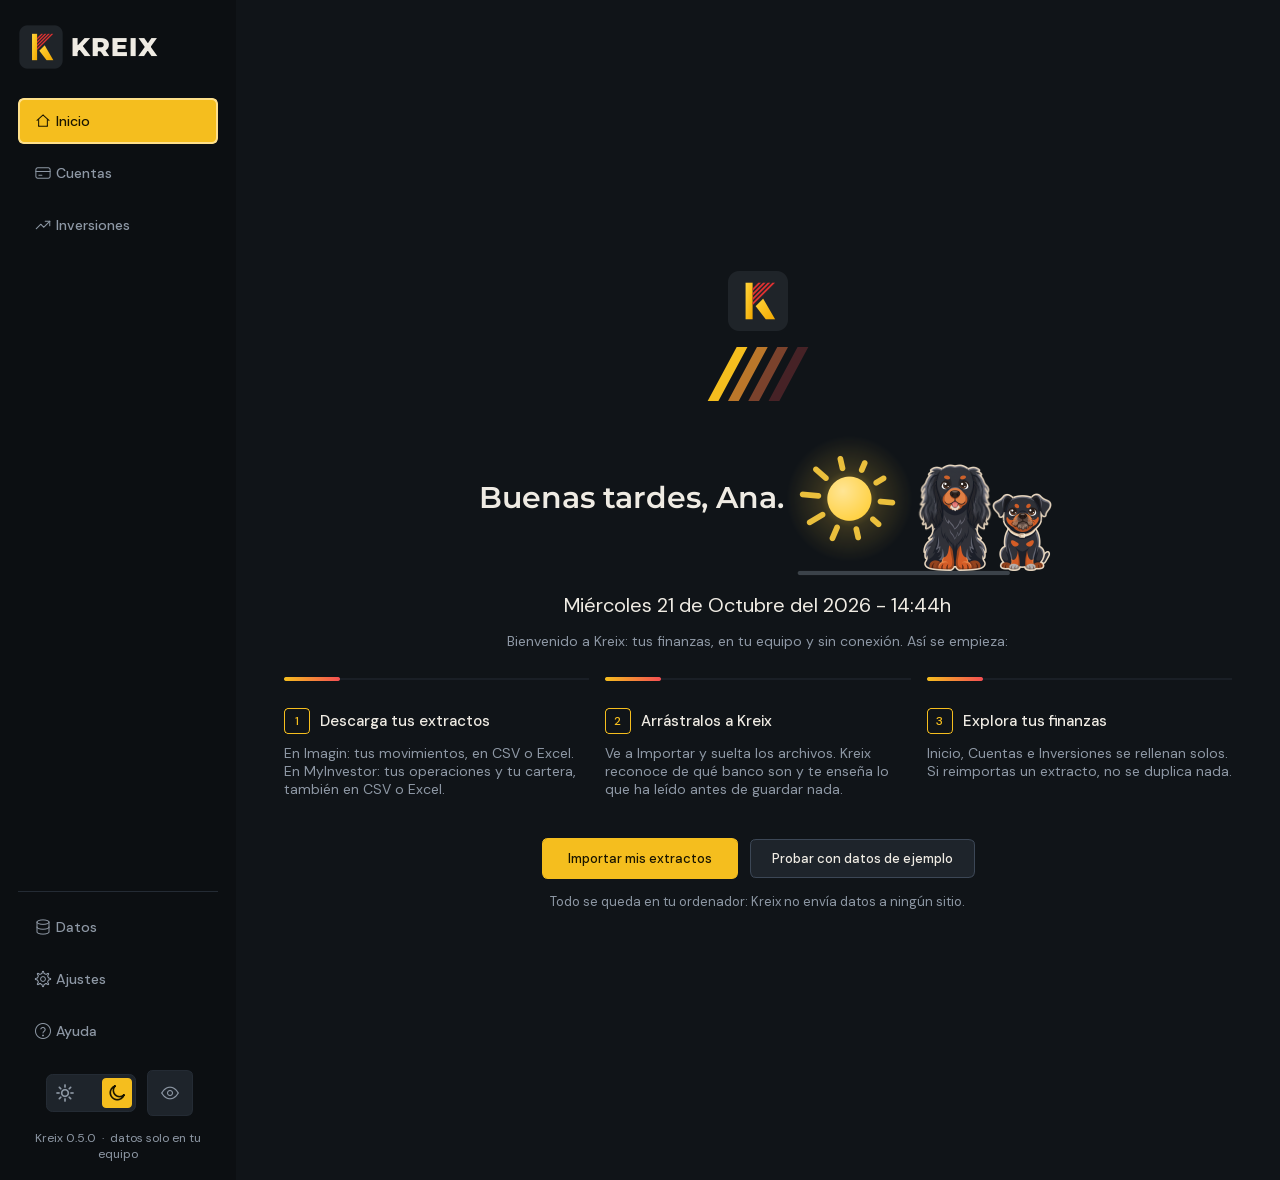
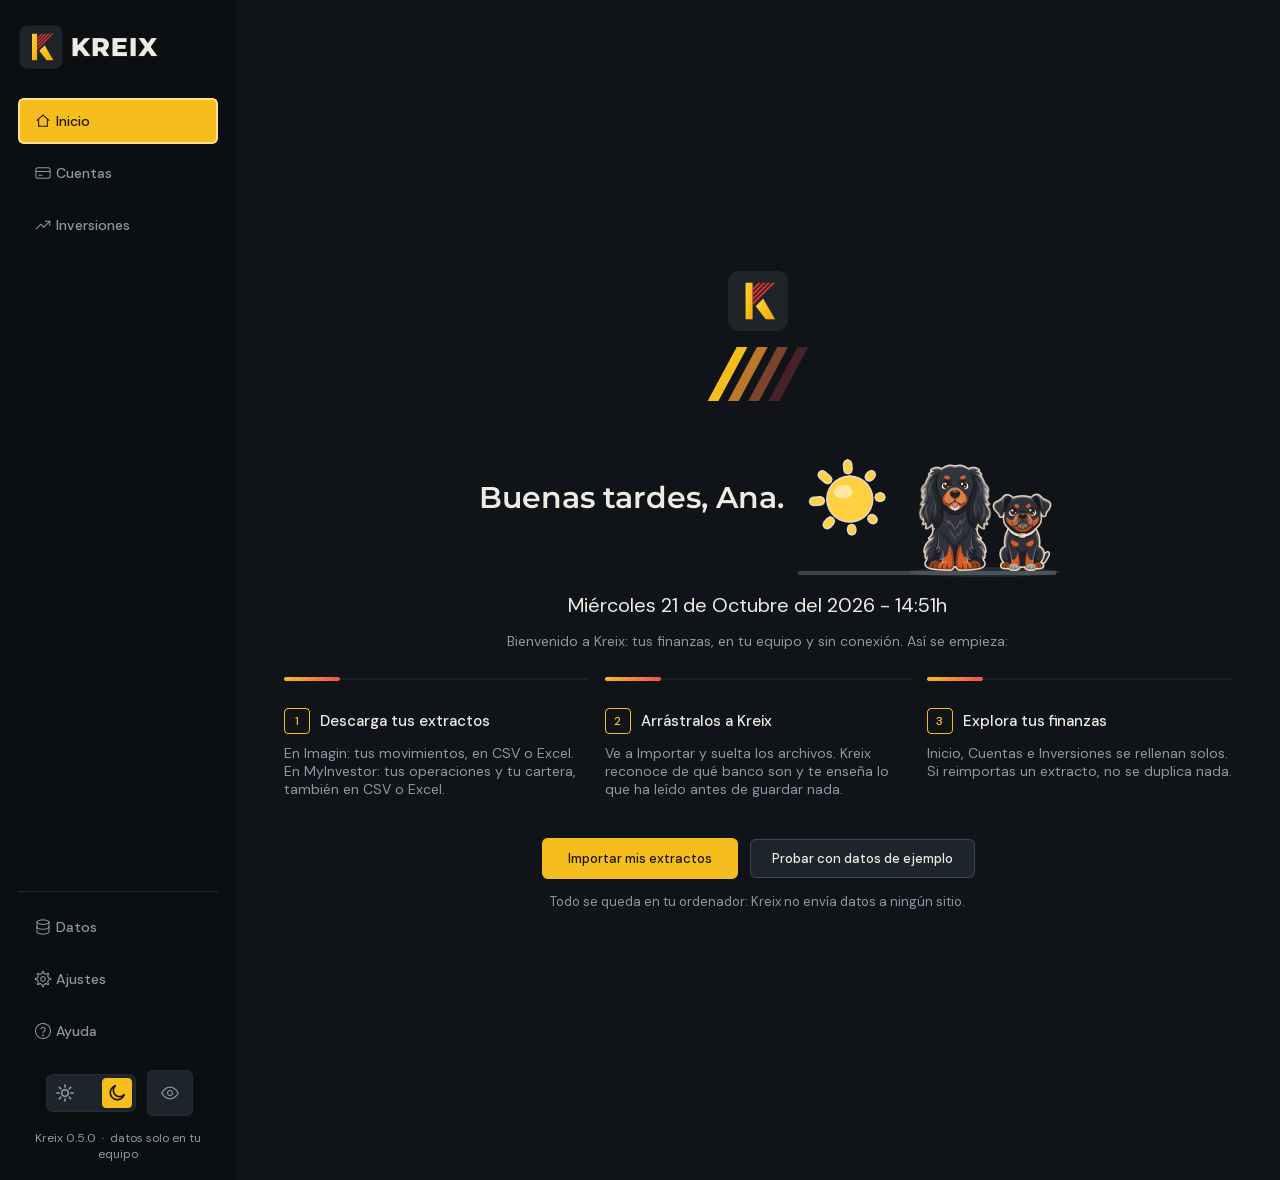
Cielo con estilo de pegatina, a juego con Blitzen y Black
- Sol, luna, estrellas y nube con relleno plano y el contorno crema de los perros; sin halos de luz ni degradados.
- El sol es un disco con rayos gorditos que giran y laten; la luna, un creciente con dos cráteres; las estrellas, destellos de cuatro puntas que titilan.
- La línea del suelo llega también bajo los perros y, bajo ellos, una sombra plana: ya no flotan.

Changed region(s): [[0.4375, 0.4881, 0.75, 0.5186], [0.625, 0.3661, 0.7188, 0.4576]]

diff --git a/ui/widgets/sky.py b/ui/widgets/sky.py
@@ -11,7 +11,7 @@ import time
 from dataclasses import dataclass
 
 from PySide6.QtCore import QEvent, QPointF, QRectF, QSize, Qt, QTimer
-from PySide6.QtGui import QColor, QPainter, QPainterPath, QPen, QRadialGradient
+from PySide6.QtGui import QColor, QPainter, QPainterPath, QPen, QTransform
 from PySide6.QtWidgets import QWidget
 
 from ui import theme
@@ -22,10 +22,13 @@ DAWN, DUSK = 6.0, 21.0            # el sol sale a las 6 y se pone a las 21
 LEAD_H = 1.25                     # (solo para el hundimiento de `_arc_point` fuera del recorrido: hoy no se usa)
 SUN_HIGH = QColor("#FFD23F")
 SUN_LOW = QColor("#FF8A3D")
-MOON = QColor("#F3EFE7")
+MOON = QColor("#F6E7B0")
 SUN_HIGH_LIGHT = QColor("#F2A100")        # en el tema claro los astros se oscurecen un poco para que se vean sobre el papel
 MOON_LIGHT = QColor("#7580C4")
 RADIUS = 8.5                       # radio del sol y de la luna
+STICKER_EDGE = dogs.CREAM          # el contorno de pegatina de Blitzen y Black, tambien para el sol, la luna, la nube y las estrellas
+STICKER_LINE = 0.62                # su grosor en unidades del cielo (el mismo que el de los perros a su tamano)
+CLOUD = QColor("#FFFFFF")
 FRAME_MS = 40                      # 25 imagenes por segundo: suficiente para un movimiento suave y barato
 
 
@@ -75,9 +78,8 @@ class SkyWidget(QWidget):
     W, H = 92, 50                   # tamano del dibujo en coordenadas logicas
     SCALE = 2.6                     # y cuanto se amplia en pantalla (rellena el hueco entre el saludo y las cuatro franjas)
     BASE = 46                       # la linea del horizonte
-    # El resplandor del sol llega mas lejos que el dibujo (radio 26 + el latido): si el widget acabara donde acaba el dibujo,
-    # la luz se cortaria en un cuadrado invisible. Por eso el widget es mas grande que el cielo y el cielo se pinta con este
-    # margen: la luz se apaga del todo antes de llegar al borde.
+    # El widget es algo mas grande que el cielo y el cielo se pinta con este margen: los rayos del sol, las estrellas, las z y
+    # los perros llegan cerca de los bordes y asi nunca se cortan.
     ARC_X0, ARC_X1 = 14.0, 33.0     # el astro recorre solo la parte izquierda: la derecha es de Blitzen y Black (no se tapan)
     PAD_X, PAD_TOP = 17, 12         # margen a izquierda/derecha y arriba (en coordenadas logicas)
 
@@ -212,68 +214,85 @@ class SkyWidget(QWidget):
             dogs.paint_night(p, dark, t, self.GROUND, center_x=77.0)
 
     def _paint_horizon(self, p: QPainter, pal) -> None:
+        """El suelo: una linea suave de lado a lado (llega tambien bajo los perros) y, bajo ellos, su sombra plana."""
         pen = QPen(_alpha(QColor(pal.muted), 0.35), 1.6)
         pen.setCapStyle(Qt.PenCapStyle.RoundCap)
         p.setPen(pen)
-        p.drawLine(QPointF(6, self.BASE + 2), QPointF(self.W - 6, self.BASE + 2))
+        p.drawLine(QPointF(6, self.BASE + 2), QPointF(self.W + 12, self.BASE + 2))
+        if self._animated:
+            p.setPen(Qt.PenStyle.NoPen)
+            p.setBrush(QColor(255, 255, 255, 22) if pal.name == "dark" else QColor(0, 0, 0, 20))
+            p.drawEllipse(QPointF(77.0, self.GROUND + 0.4), 29.0, 1.9)
 
     def _elevation(self, center: QPointF) -> float:
-        """0 cuando el astro esta del todo bajo el horizonte y 1 cuando ya asoma por completo: sirve para que el brillo
-        y los rayos aparezcan poco a poco al salir y se apaguen al ponerse (sin 'dientes' sueltos sobre la linea)."""
+        """0 cuando el astro esta del todo bajo el horizonte y 1 cuando ya asoma por completo: sirve para que los rayos
+        crezcan poco a poco al salir y se recojan al ponerse (sin 'dientes' sueltos sobre la linea)."""
         return max(0.0, min(1.0, (self.BASE + RADIUS + 4 - center.y()) / (RADIUS * 2.4)))
 
+    @staticmethod
+    def _sticker(p: QPainter, path: QPainterPath, fill: QColor, alpha: float = 1.0) -> None:
+        """Una forma con el contorno crema de pegatina por fuera, como Blitzen y Black."""
+        edge = QPen(_alpha(STICKER_EDGE, alpha), STICKER_LINE * 2)
+        edge.setJoinStyle(Qt.PenJoinStyle.RoundJoin)
+        p.setPen(edge)
+        p.setBrush(_alpha(STICKER_EDGE, alpha))
+        p.drawPath(path)
+        p.setPen(Qt.PenStyle.NoPen)
+        p.setBrush(_alpha(fill, alpha))
+        p.drawPath(path)
+
     def _paint_sun(self, p: QPainter, pal, progress: float, t: float, presence: float = 1.0) -> None:
+        """El sol como pegatina: disco y rayos gorditos en una sola forma, relleno plano y un brillo plano. Los rayos giran
+        despacio y laten; al salir y al ponerse se recogen."""
         inside = max(0.0, min(1.0, progress))
         low = 1 - math.sin(math.pi * inside) ** 0.55           # 0 a mediodia, 1 en el horizonte
         high = SUN_HIGH_LIGHT if pal.name == "light" else SUN_HIGH
         color = _mix(high, SUN_LOW, low * 1.15)
         center = self._arc_point(progress) + QPointF(0, math.sin(t * 1.3) * 1.3)   # un ligero vaiven
         radius = RADIUS
-
         vis = self._elevation(center)
-        pulse = 1 + 0.07 * math.sin(t * 2.2)
-        glow = QRadialGradient(center, 26 * pulse)
-        glow.setColorAt(0.0, _alpha(color, 0.55 * vis))
-        glow.setColorAt(0.45, _alpha(color, 0.16 * vis))
-        glow.setColorAt(1.0, _alpha(color, 0.0))
-        p.setPen(Qt.PenStyle.NoPen)
-        p.setBrush(glow)
-        p.drawEllipse(center, 26 * pulse, 26 * pulse)
 
+        shape = QPainterPath()
+        shape.addEllipse(center, radius, radius)
         angle = t * 0.35                                       # los rayos giran muy despacio
-        ray = QPen(_alpha(color, 0.9 * vis), 2.2)
-        ray.setCapStyle(Qt.PenCapStyle.RoundCap)
-        p.setPen(ray)
-        for i in range(10):
-            a = angle + i * math.tau / 10
-            reach = 4.5 + 1.6 * math.sin(t * 2.2 + i * 0.9)
-            c, s = math.cos(a), math.sin(a)
-            p.drawLine(center + QPointF(c * (radius + 3.5), s * (radius + 3.5)),
-                       center + QPointF(c * (radius + 3.5 + reach), s * (radius + 3.5 + reach)))
-
-        disc = QRadialGradient(center - QPointF(2.5, 3), radius * 1.5)
-        disc.setColorAt(0.0, _mix(color, QColor("#FFFFFF"), 0.45))
-        disc.setColorAt(1.0, color)
-        p.setPen(Qt.PenStyle.NoPen)
-        p.setBrush(disc)
-        p.drawEllipse(center, radius, radius)
+        for i in range(8):
+            a = angle + i * math.tau / 8
+            reach = (4.2 + 1.1 * math.sin(t * 2.2 + i * 0.9)) * vis
+            if reach < 0.4:
+                continue
+            ray = QPainterPath()
+            ray.addRoundedRect(QRectF(radius + 1.6, -1.25, reach, 2.5), 1.25, 1.25)
+            turn = QTransform()
+            turn.translate(center.x(), center.y())
+            turn.rotateRadians(a)
+            shape = shape.united(turn.map(ray))
+        self._sticker(p, shape, color)
+        shine = QPainterPath()                                 # el brillo: una media luna clara, plana, arriba a la izquierda
+        shine.addEllipse(center + QPointF(-2.6, -2.8), radius * 0.42, radius * 0.3)
+        p.setBrush(_mix(color, QColor("#FFFFFF"), 0.5))
+        p.drawPath(shine)
 
         self._paint_cloud(p, pal, t, presence)
 
     def _paint_cloud(self, p: QPainter, pal, t: float, presence: float = 1.0) -> None:
-        """Una nube suave cruza el cielo cada medio minuto, por delante del sol, y se funde en los bordes."""
+        """Una nube de pegatina cruza el cielo cada medio minuto, por delante del sol, y aparece y se va por los bordes."""
         span = self.W + 44
         x = ((t * 3.2) % span) - 28
         fade = max(0.0, min(1.0, (x + 6) / 18, (self.W - x - 20) / 18)) * presence
         if fade <= 0:
             return
-        p.setPen(Qt.PenStyle.NoPen)
-        p.setBrush(QColor(255, 255, 255, round(70 * fade)))
-        for dx, dy, r in ((4, 0, 4.5), (10, -3, 5.5), (17, -1, 4.8), (23, 0, 3.8)):
-            p.drawEllipse(QPointF(x + dx, 15 + dy), r, r)
-        p.drawRoundedRect(QRectF(x, 15, 26, 5), 2.5, 2.5)
+        cloud = QPainterPath()
+        for dx, dy, r in ((4, 0, 4.0), (10, -3, 5.0), (17, -1, 4.4), (23, 0, 3.4)):
+            puff = QPainterPath()
+            puff.addEllipse(QPointF(x + dx, 15 + dy), r, r)
+            cloud = cloud.united(puff)
+        base = QPainterPath()
+        base.addRoundedRect(QRectF(x, 15, 26, 4.4), 2.2, 2.2)
+        cloud = cloud.united(base)
+        self._sticker(p, cloud, CLOUD, fade)
 
     def _paint_moon(self, p: QPainter, pal, progress: float, t: float, presence: float = 1.0) -> None:
+        """La luna como pegatina (creciente plano con dos crateres) y estrellas de cuatro puntas que titilan."""
         moon_color = MOON_LIGHT if pal.name == "light" else MOON
         center = self._arc_point(progress, 24 - DUSK + DAWN) + QPointF(0, math.sin(t * 1.0) * 1.2)
         radius = RADIUS
@@ -283,26 +302,22 @@ class SkyWidget(QWidget):
 
         stars = ((6, 10, 0.0), (38, 10, 1.7), (52, 6, 3.1), (45, 22, 4.4), (38, 32, 5.2))
         for x, y, shift in stars:
-            twinkle = 0.25 + 0.75 * (0.5 + 0.5 * math.sin(t * 1.8 + shift)) ** 2
-            size = 1.6 + 0.9 * twinkle
-            pen = QPen(_alpha(moon_color, twinkle * 0.9 * night_fade), 1.2)
-            pen.setCapStyle(Qt.PenCapStyle.RoundCap)
-            p.setPen(pen)
-            p.drawLine(QPointF(x - size, y), QPointF(x + size, y))
-            p.drawLine(QPointF(x, y - size), QPointF(x, y + size))
-
-        vis = self._elevation(center)
-        glow = QRadialGradient(center, 24)
-        glow.setColorAt(0.0, QColor(130, 150, 240, round(90 * vis)))
-        glow.setColorAt(1.0, QColor(130, 150, 240, 0))
-        p.setPen(Qt.PenStyle.NoPen)
-        p.setBrush(glow)
-        p.drawEllipse(center, 24, 24)
+            twinkle = 0.5 + 0.5 * math.sin(t * 1.8 + shift)
+            size = 1.7 + 1.1 * twinkle
+            sparkle = QPainterPath()                           # cuatro puntas: los lados se curvan hacia dentro
+            tips = ((x, y - size), (x + size, y), (x, y + size), (x - size, y))
+            sparkle.moveTo(*tips[0])
+            for i in range(4):
+                nx, ny = tips[(i + 1) % 4]
+                sparkle.quadTo(QPointF(x, y), QPointF(nx, ny))
+            self._sticker(p, sparkle, moon_color, (0.45 + 0.55 * twinkle) * night_fade)
 
         moon = QPainterPath()
         moon.addEllipse(center, radius, radius)
         bite = QPainterPath()
         bite.addEllipse(center + QPointF(4.2, -2.6), radius * 0.86, radius * 0.86)
         crescent = moon.subtracted(bite)
-        p.setBrush(moon_color)
-        p.drawPath(crescent)
+        self._sticker(p, crescent, moon_color)
+        p.setBrush(_mix(moon_color, QColor("#000000"), 0.12))  # dos crateres planos
+        for dx, dy, r in ((-5.0, 1.8, 1.2), (-2.2, 5.2, 0.9)):
+            p.drawEllipse(center + QPointF(dx, dy), r, r)
